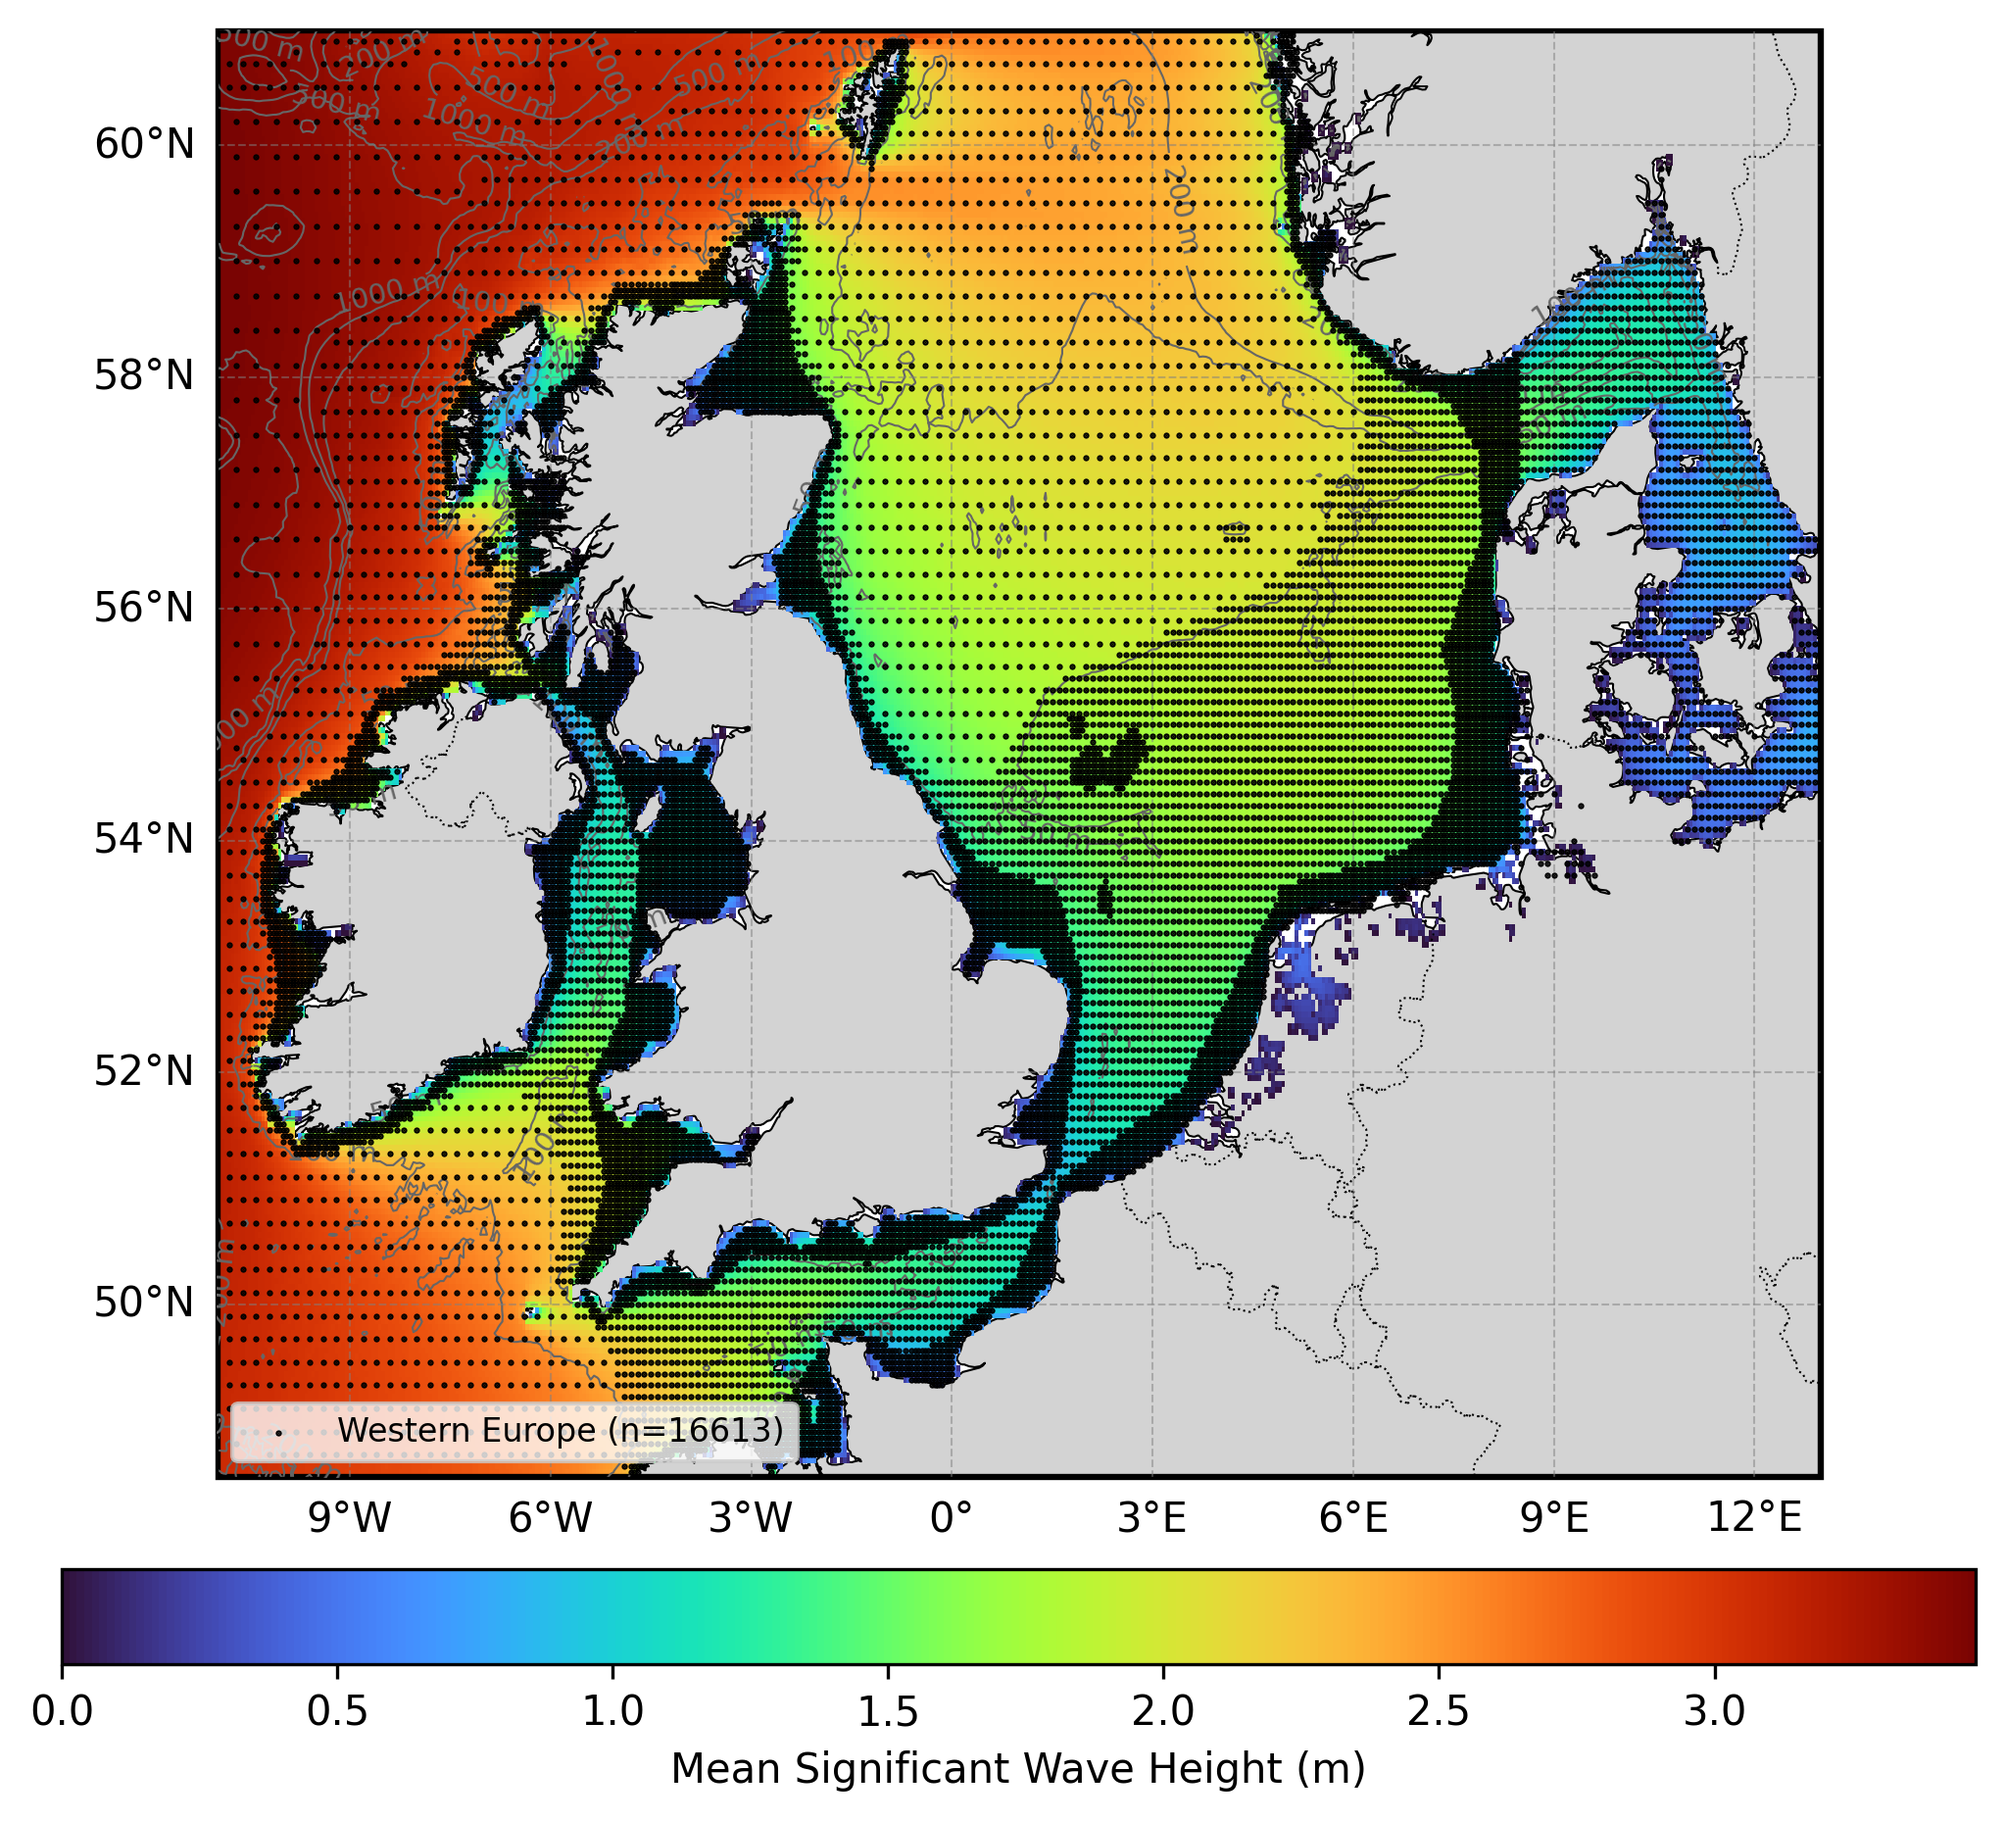
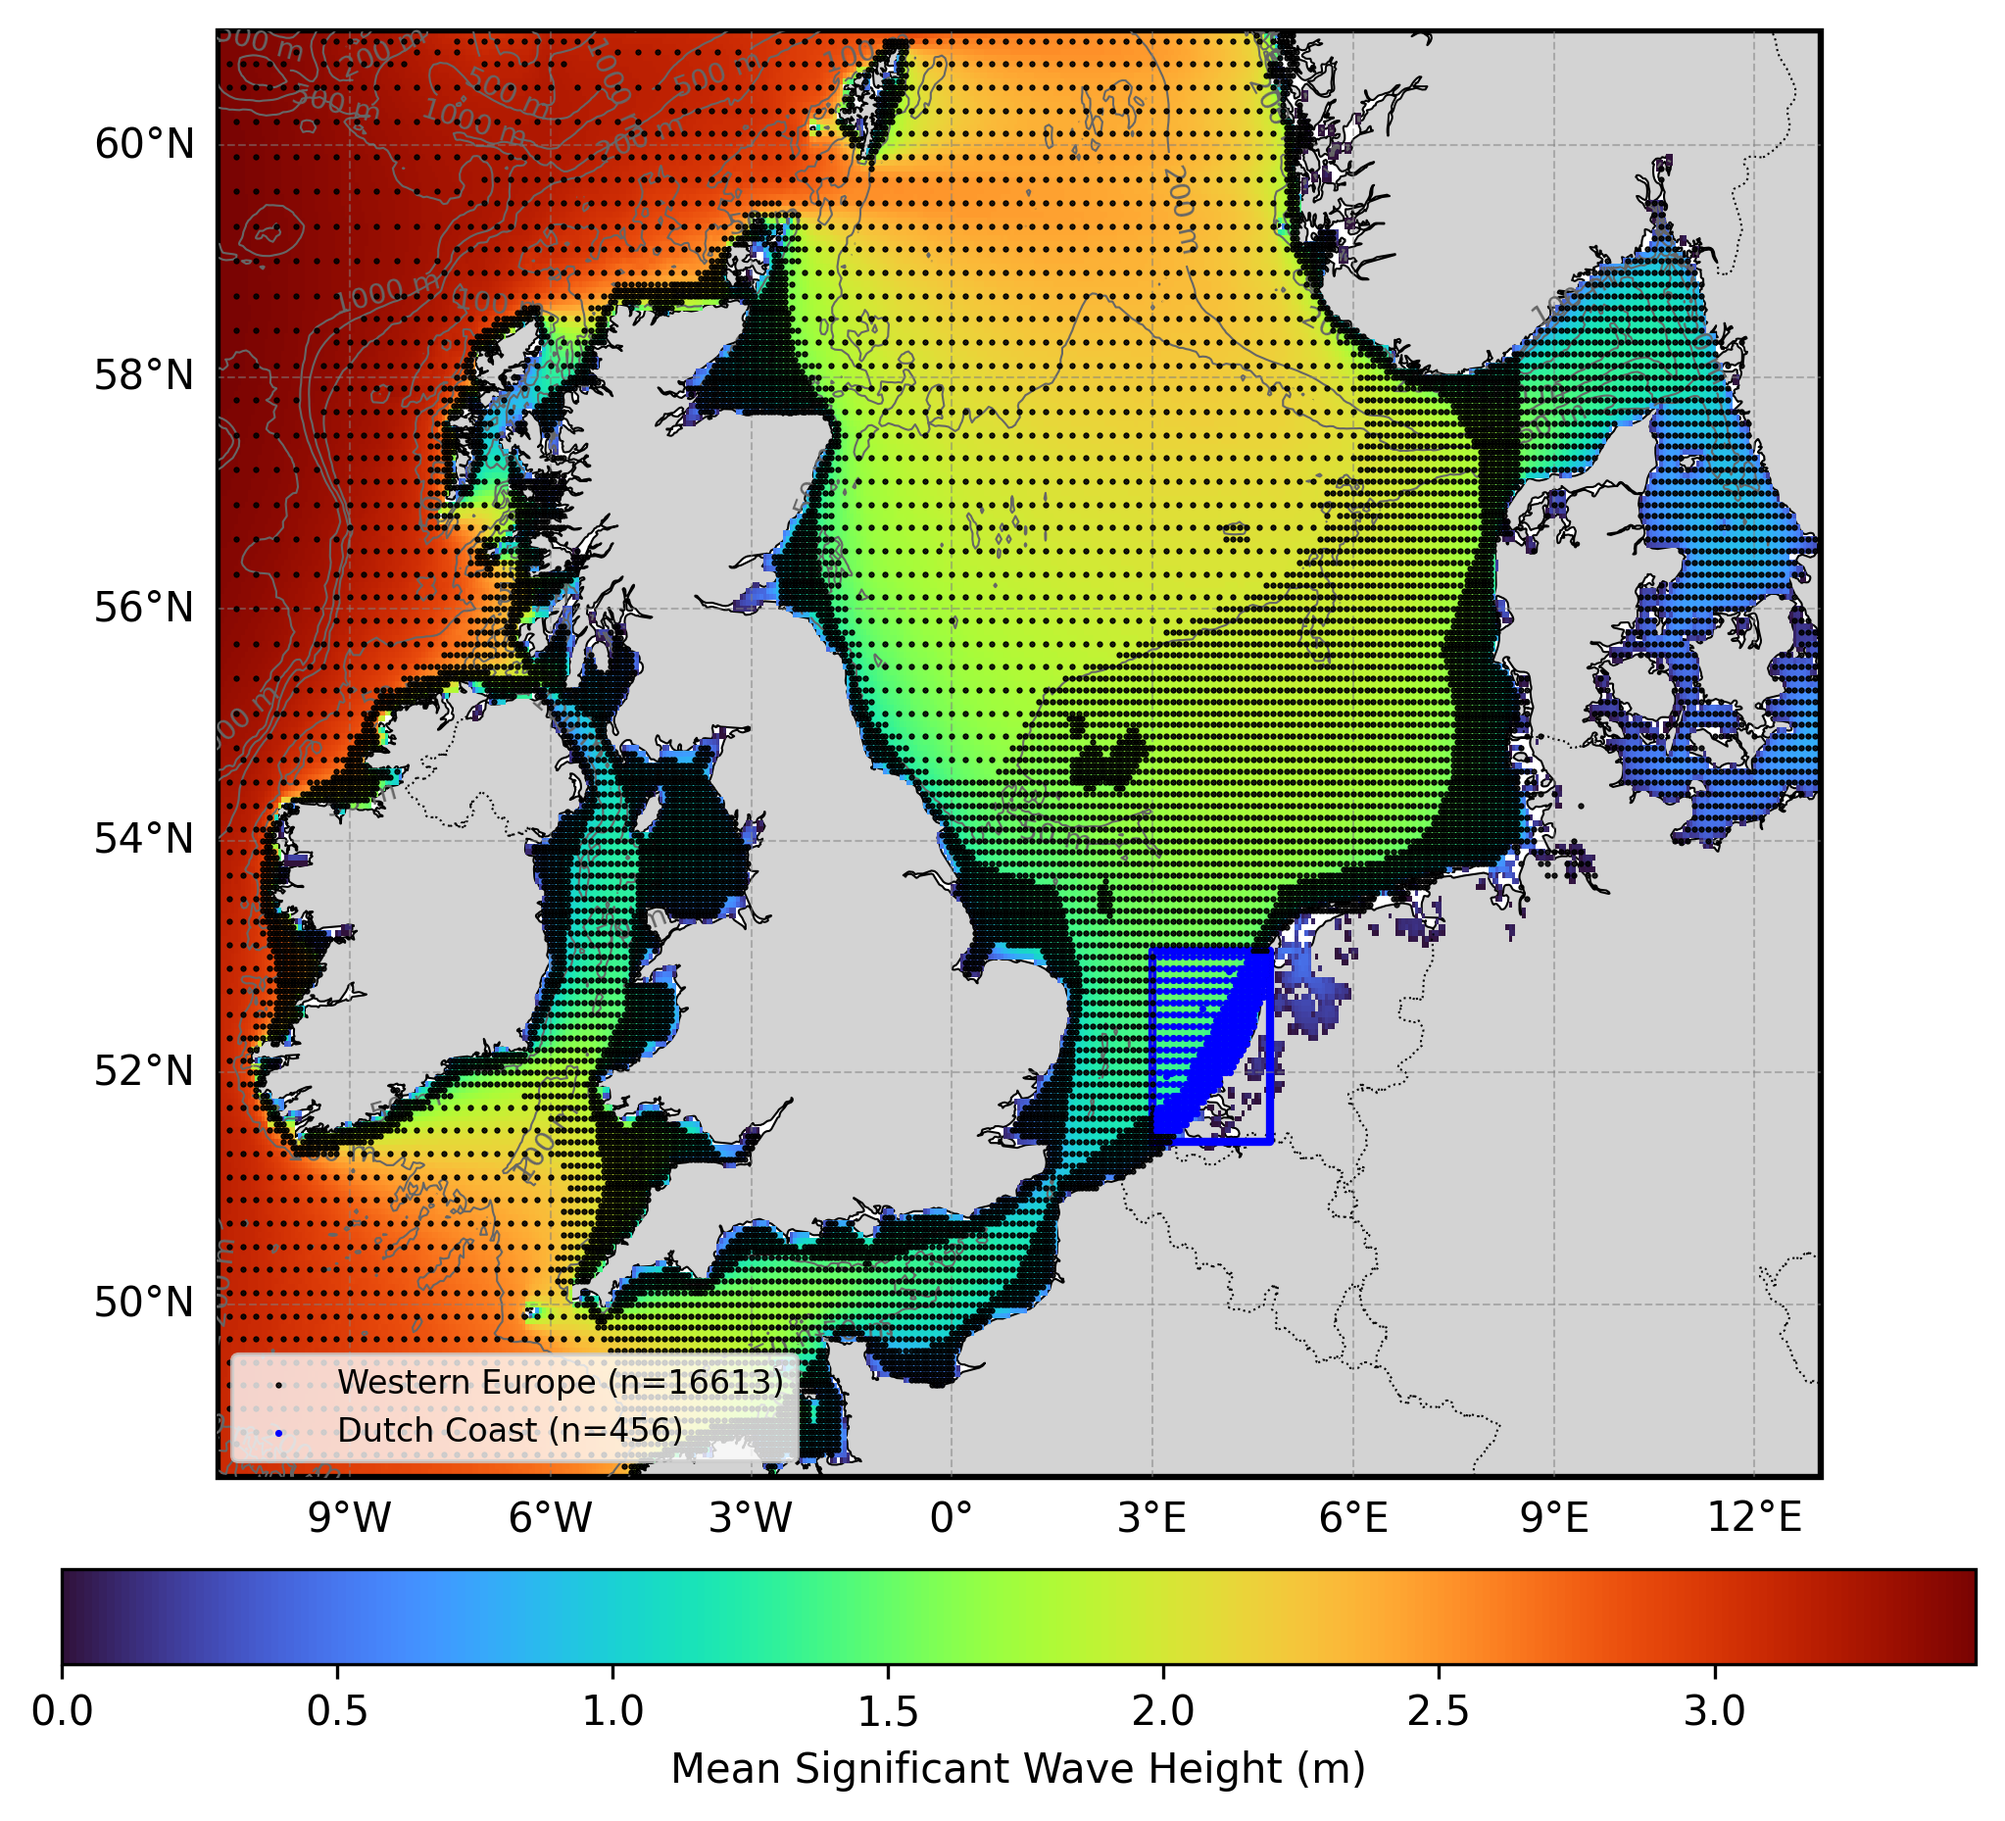
Include the Dutch domain in the weuro document

Changed region(s): [[0.0924, 0.718, 0.4003, 0.8116], [0.5543, 0.4995, 0.6466, 0.6555]]

diff --git a/scripts/generate_figures.py b/scripts/generate_figures.py
@@ -370,6 +370,15 @@ WESTERN_EUROPE_CONFIG = FigureConfig(
     cbar_shrink=0.7,
     show_borders=True,
     site_size=1.0,
+    nests=[
+        NestConfig(
+            name="Dutch Coast",
+            spec_id="oceanum_wave_dutch_era5_v1_spec",
+            grid_id="oceanum_wave_dutch_era5_v1_grid",
+            color="blue",
+            site_size=2.0,
+        ),
+    ],
 )
 
 TAIWAN_CONFIG = FigureConfig(

diff --git a/oceanum_western_europe_wave_hindcast.md b/oceanum_western_europe_wave_hindcast.md
@@ -12,7 +12,7 @@ table { margin-left: auto; margin-right: auto; }
 |---|---|
 | **Model** | SWAN 41.31 |
 | **Period** | Feb 1979 - Updating |
-| **Spatial resolution** | 5 km (0.05 degree) |
+| **Spatial resolution** | 5 km / 1 km |
 | **Temporal resolution** | 3 hourly |
 | **Region** | 11W - 13E, 48.5N - 61N |
 | **Forcings** | ERA5 winds and Oceanum spectra |
@@ -23,13 +23,16 @@ table { margin-left: auto; margin-right: auto; }
 
 The Western Europe wave hindcast dataset provides a detailed account of ocean wave parameters across the waters of northwestern Europe (Figure 1). The domain encompasses the North Sea, Irish Sea, Celtic Sea, English Channel, and the northeastern Atlantic waters off the coasts of Ireland, the United Kingdom, France, Belgium, the Netherlands, Germany, Denmark, and Norway. This region experiences a complex wave climate influenced by Atlantic swell, extratropical cyclones, and the interaction between open ocean and semi-enclosed seas. Wave spectra are computed over a 45+ year period between 1979 and present using the SWAN (Simulating WAves Nearshore) third-generation spectral wave model. The model is driven by inputs from the <a href="https://ui.datamesh.oceanum.io/datasource/oceanum_wave_glob05_era5_v1_spec" target="_blank">Oceanum Global Wave Model</a> for spectral boundaries and <a href="https://www.ecmwf.int/en/forecasts/dataset/ecmwf-reanalysis-v5" target="_blank">ERA5 reanalysis winds</a> from the European Centre for Medium-Range Weather Forecasts. Bathymetry is derived from the <a href="https://www.gebco.net/data_and_products/gridded_bathymetry_data/" target="_blank">GEBCO 2020</a> global bathymetric grid.
 
-The modelling setup employs the <a href="https://journals.ametsoc.org/view/journals/atot/29/9/jtech-d-11-00092_1.xml" target="_blank">ST6</a> source term parameterisations. Spectra are discretised into 36 directional bins and 32 frequency bins, covering a frequency range from 0.037 to 0.71 Hz with 10% logarithmic increments. The model features a regular grid with a 5 km (0.05 degree) resolution, providing detailed wave information for the Western European coastal region.
+The modelling setup employs the <a href="https://journals.ametsoc.org/view/journals/atot/29/9/jtech-d-11-00092_1.xml" target="_blank">ST6</a> source term parameterisations. Spectra are discretised into 36 directional bins and 32 frequency bins, covering a frequency range from 0.037 to 0.71 Hz with 10% logarithmic increments. The model features a multi-resolution grid system:
 
-The dataset provides 3-hourly estimates for an extensive array of ocean wave parameters (Table 2) including spectral quantities integrated over the full spectrum and for spectral partitions. Partitions are defined from an 8-second split (sea/swell) and from the Watershed method, which identifies one wind-forced partition and up to three swell partitions. These data are stored over the entire grid at native resolution. Additionally, frequency-direction wave spectra are available at 16613 sites distributed across the domain (see Figure 1).
+- **Western Europe 5 km**: Parent domain covering the entire region at 0.05 degree resolution
+- **Dutch Coast 1 km**: High-resolution nest covering the Dutch North Sea coast at 0.01 degree resolution
+
+The dataset provides hourly (Dutch Coast) and 3-hourly (Western Europe) estimates for an extensive array of ocean wave parameters (Table 2) including spectral quantities integrated over the full spectrum and for spectral partitions. Partitions are defined from an 8-second split (sea/swell) and from the Watershed method, which identifies one wind-forced partition and up to three swell partitions. These data are stored over the entire grid at native resolution. Additionally, frequency-direction wave spectra are available at 16613 sites (5km domain) plus 456 sites (Dutch Coast) distributed across the domain (see Figure 1).
 
 <img src="./figures/weuro_figure1_hs_mean.png" alt="Figure 1" width="600">
 
-**Figure 1.** Mean significant wave height from the Western Europe hindcast domain. The locations of 2D spectra 3-hourly output are shown by the black dots. Depth contours are shown at 50m, 100m, 200m, 500m, 1000m, and 2000m.
+**Figure 1.** Mean significant wave height from the Western Europe hindcast domain. The locations of 2D spectra output are shown by the dots (black for 5km domain, blue for Dutch Coast nest). The blue box indicates the Dutch Coast 1km nest extent. Depth contours are shown at 50m, 100m, 200m, 500m, 1000m, and 2000m.
 
 ---
 
@@ -52,8 +55,9 @@ The wave hindcast can be validated against satellite altimeter observations usin
 | **Source terms** | <a href="https://journals.ametsoc.org/view/journals/atot/29/9/jtech-d-11-00092_1.xml" target="_blank">ST6</a> |
 | **Temporal coverage** | 1979-02-01 to present (updating) |
 | **Temporal resolution** | 3 hourly |
-| **Spatial coverage** | [11W, 48.5N, 13E, 61N] at 0.05 degree |
-| **Spectra output sites** | 16613 |
+| **Spatial coverage (5km)** | [11W, 48.5N, 13E, 61N] at 0.05 degree |
+| **Spatial coverage (Dutch Coast 1km)** | [3E, 51.4N, 4.75E, 53.05N] at 0.01 degree |
+| **Spectra output sites** | 16613 (5km) + 456 (Dutch Coast) |
 | **Frequency discretisation** | 32 frequencies between 0.037 - 0.71 Hz at 10% logarithmic increments |
 | **Direction resolution** | 10 deg |
 | **Bathymetry** | <a href="https://www.gebco.net/data_and_products/gridded_bathymetry_data/" target="_blank">GEBCO 2020 Grid</a> |
@@ -62,9 +66,17 @@ The wave hindcast can be validated against satellite altimeter observations usin
 
 ### Linked Datamesh datasources
 
+#### Western Europe 5 km
+
 - <a href="https://ui.datamesh.oceanum.io/datasource/oceanum_wave_weuro_era5_v1_grid" target="_blank">Oceanum Western Europe 5 km 3-hourly wave parameters</a>
 - <a href="https://ui.datamesh.oceanum.io/datasource/oceanum_wave_weuro_era5_v1_spec" target="_blank">Oceanum Western Europe 5 km 3-hourly wave spectra</a>
 - <a href="https://ui.datamesh.oceanum.io/datasource/oceanum_wave_weuro_era5_v1_gridstats" target="_blank">Oceanum Western Europe 5 km gridded wave statistics</a>
+
+#### Dutch Coast 1 km
+
+- <a href="https://ui.datamesh.oceanum.io/datasource/oceanum_wave_dutch_era5_v1_grid" target="_blank">Oceanum Dutch Coast 1 km hourly wave parameters</a>
+- <a href="https://ui.datamesh.oceanum.io/datasource/oceanum_wave_dutch_era5_v1_spec" target="_blank">Oceanum Dutch Coast 1 km hourly wave spectra</a>
+- <a href="https://ui.datamesh.oceanum.io/datasource/oceanum_wave_dutch_era5_v1_gridstats" target="_blank">Oceanum Dutch Coast 1 km gridded wave statistics</a>
 
 ---
 
